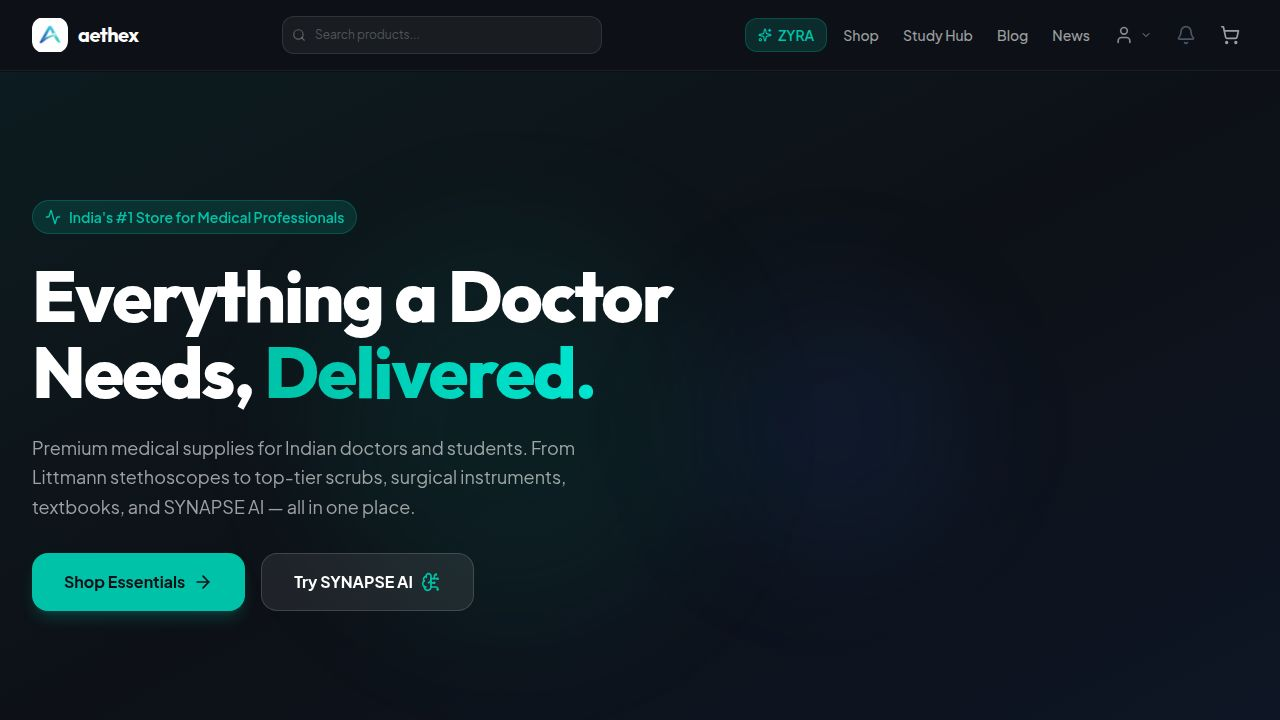
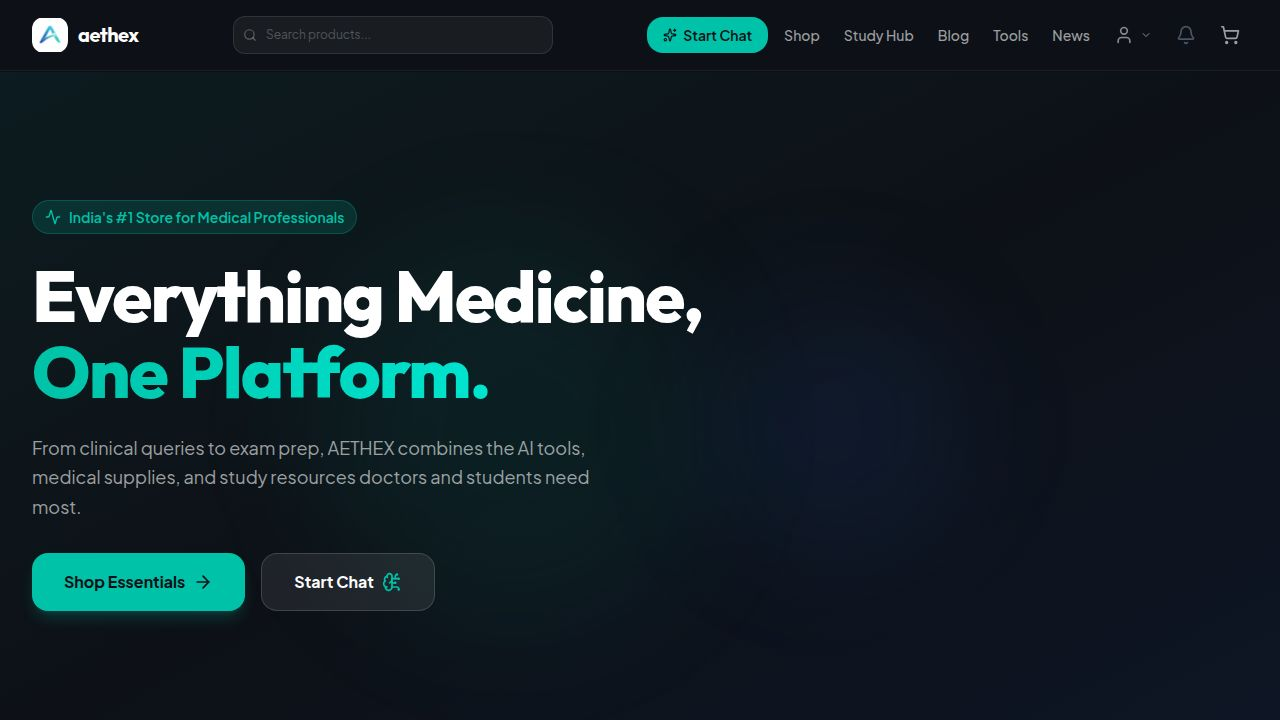
Fix syntax errors and improve rate limiting for API endpoints
Corrects a syntax error in `ai.ts` and updates rate limiting configurations in `auth.ts` and `contact.ts` to use `ipKeyGenerator` and disable `xForwardedForHeader` validation.

Replit-Commit-Author: Agent
Replit-Commit-Session-Id: ac40b53f-9d03-4d1c-9fbf-680308b2054c
Replit-Commit-Checkpoint-Type: full_checkpoint
Replit-Commit-Event-Id: 6f78ca80-eede-4dfb-be58-54f01ab269fe
Replit-Commit-Screenshot-Url: https://storage.googleapis.com/screenshot-production-us-central1/a55daec2-27b9-4dca-9154-93f33c7d5e68/ac40b53f-9d03-4d1c-9fbf-680308b2054c/QXvXMzR
Replit-Helium-Checkpoint-Created: true

diff --git a/artifacts/api-server/src/routes/auth.ts b/artifacts/api-server/src/routes/auth.ts
@@ -1,6 +1,6 @@
 import { Router, type IRouter } from "express";
 import bcrypt from "bcryptjs";
-import rateLimit from "express-rate-limit";
+import rateLimit, { ipKeyGenerator } from "express-rate-limit";
 import { db } from "@workspace/db";
 import { otpRequestsTable, authUsersTable } from "@workspace/db";
 import { eq, and, gt } from "drizzle-orm";
@@ -12,7 +12,8 @@ const router: IRouter = Router();
 const otpSendLimiter = rateLimit({
   windowMs: 60 * 60 * 1000,
   max: 5,
-  keyGenerator: (req) => req.body?.email ?? req.ip ?? "unknown",
+  keyGenerator: (req) => req.body?.email ?? ipKeyGenerator(req),
+  validate: { xForwardedForHeader: false },
   message: { error: "Too many OTP requests. Please try again in an hour." },
   standardHeaders: true,
   legacyHeaders: false,
@@ -21,7 +22,8 @@ const otpSendLimiter = rateLimit({
 const otpVerifyLimiter = rateLimit({
   windowMs: 15 * 60 * 1000,
   max: 10,
-  keyGenerator: (req) => req.body?.email ?? req.ip ?? "unknown",
+  keyGenerator: (req) => req.body?.email ?? ipKeyGenerator(req),
+  validate: { xForwardedForHeader: false },
   message: { error: "Too many verification attempts. Please try again later." },
   standardHeaders: true,
   legacyHeaders: false,

diff --git a/artifacts/api-server/src/routes/ai.ts b/artifacts/api-server/src/routes/ai.ts
@@ -909,7 +909,7 @@ STRICT RULES:
       footerBg: ReturnType<typeof rgb>; footerText: ReturnType<typeof rgb>;
       sepLine: ReturnType<typeof rgb>;
     };
-    const CADUS AI_THEME: Theme = {
+    const CADUS_AI_THEME: Theme = {
       bg: rgb(0.97, 0.98, 0.99),         header: rgb(0.04, 0.07, 0.18),
       headerText: WHITE,                  accent: rgb(0.04, 0.74, 0.60),
       accentDim: rgb(0.03, 0.40, 0.33),  accentBrt: rgb(0.15, 0.88, 0.72),
@@ -919,7 +919,7 @@ STRICT RULES:
       footerBg: rgb(0.04, 0.07, 0.18),   footerText: WHITE,
       sepLine: rgb(0.86, 0.92, 0.90),
     };
-    const THEMES: Theme[] = Array(6).fill(CADUS AI_THEME);
+    const THEMES: Theme[] = Array(6).fill(CADUS_AI_THEME);
 
     // ── Diagram drawing helpers ───────────────────────────────────────────
     type Page = ReturnType<typeof pdfDoc.addPage>;
@@ -1424,7 +1424,7 @@ STRICT RULES:
 
     // ── QUICK REFERENCE PAGE ──────────────────────────────────────────────
     if ((pres.quickReference ?? []).length) {
-      const th = CADUS AI_THEME;
+      const th = CADUS_AI_THEME;
       const p = pdfDoc.addPage([W, H]);
       p.drawRectangle({ x: 0, y: 0, width: W, height: H, color: th.bg });
       // Header

diff --git a/artifacts/api-server/src/routes/contact.ts b/artifacts/api-server/src/routes/contact.ts
@@ -1,5 +1,5 @@
 import { Router, type IRouter } from "express";
-import rateLimit from "express-rate-limit";
+import rateLimit, { ipKeyGenerator } from "express-rate-limit";
 import OpenAI from "openai";
 import { db } from "@workspace/db";
 import { messagesTable } from "@workspace/db";
@@ -10,7 +10,8 @@ const router: IRouter = Router();
 const contactLimiter = rateLimit({
   windowMs: 60 * 60 * 1000,
   max: 10,
-  keyGenerator: (req) => req.ip ?? "unknown",
+  keyGenerator: (req) => ipKeyGenerator(req),
+  validate: { xForwardedForHeader: false },
   message: { error: "Too many requests. Please try again later." },
   standardHeaders: true,
   legacyHeaders: false,